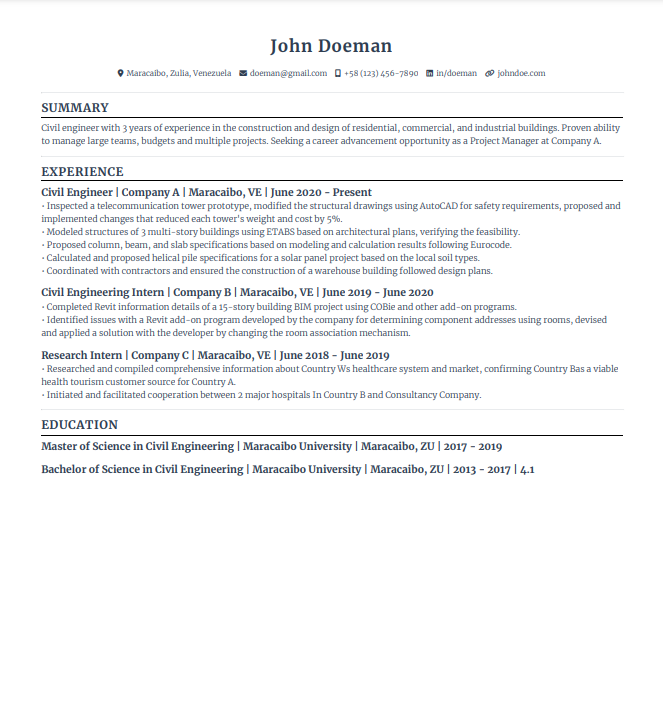
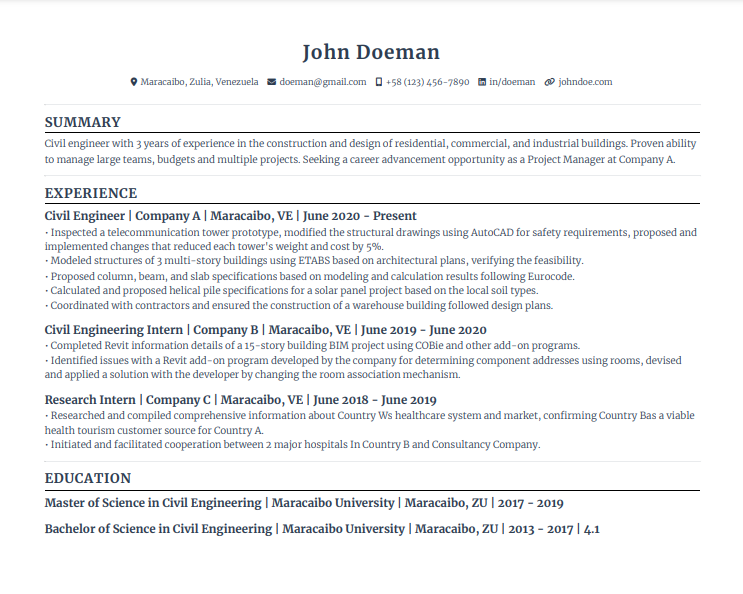
Change readme screenshot

Changed region(s): [[0.0603, 0.0303, 0.9351, 0.7576], [0.0603, 0.7879, 0.8145, 0.9091]]

diff --git a/README.md b/README.md
@@ -30,7 +30,7 @@
 ## About the Project
 
 <div align="center"> 
-  <img src="screenshots/resume-example.png" alt="resume example" width="700" height="auto"/>
+  <img src="screenshots/resume-example.png" alt="resume example" width="600" height="auto"/>
 </div>
 
 ### Built With
